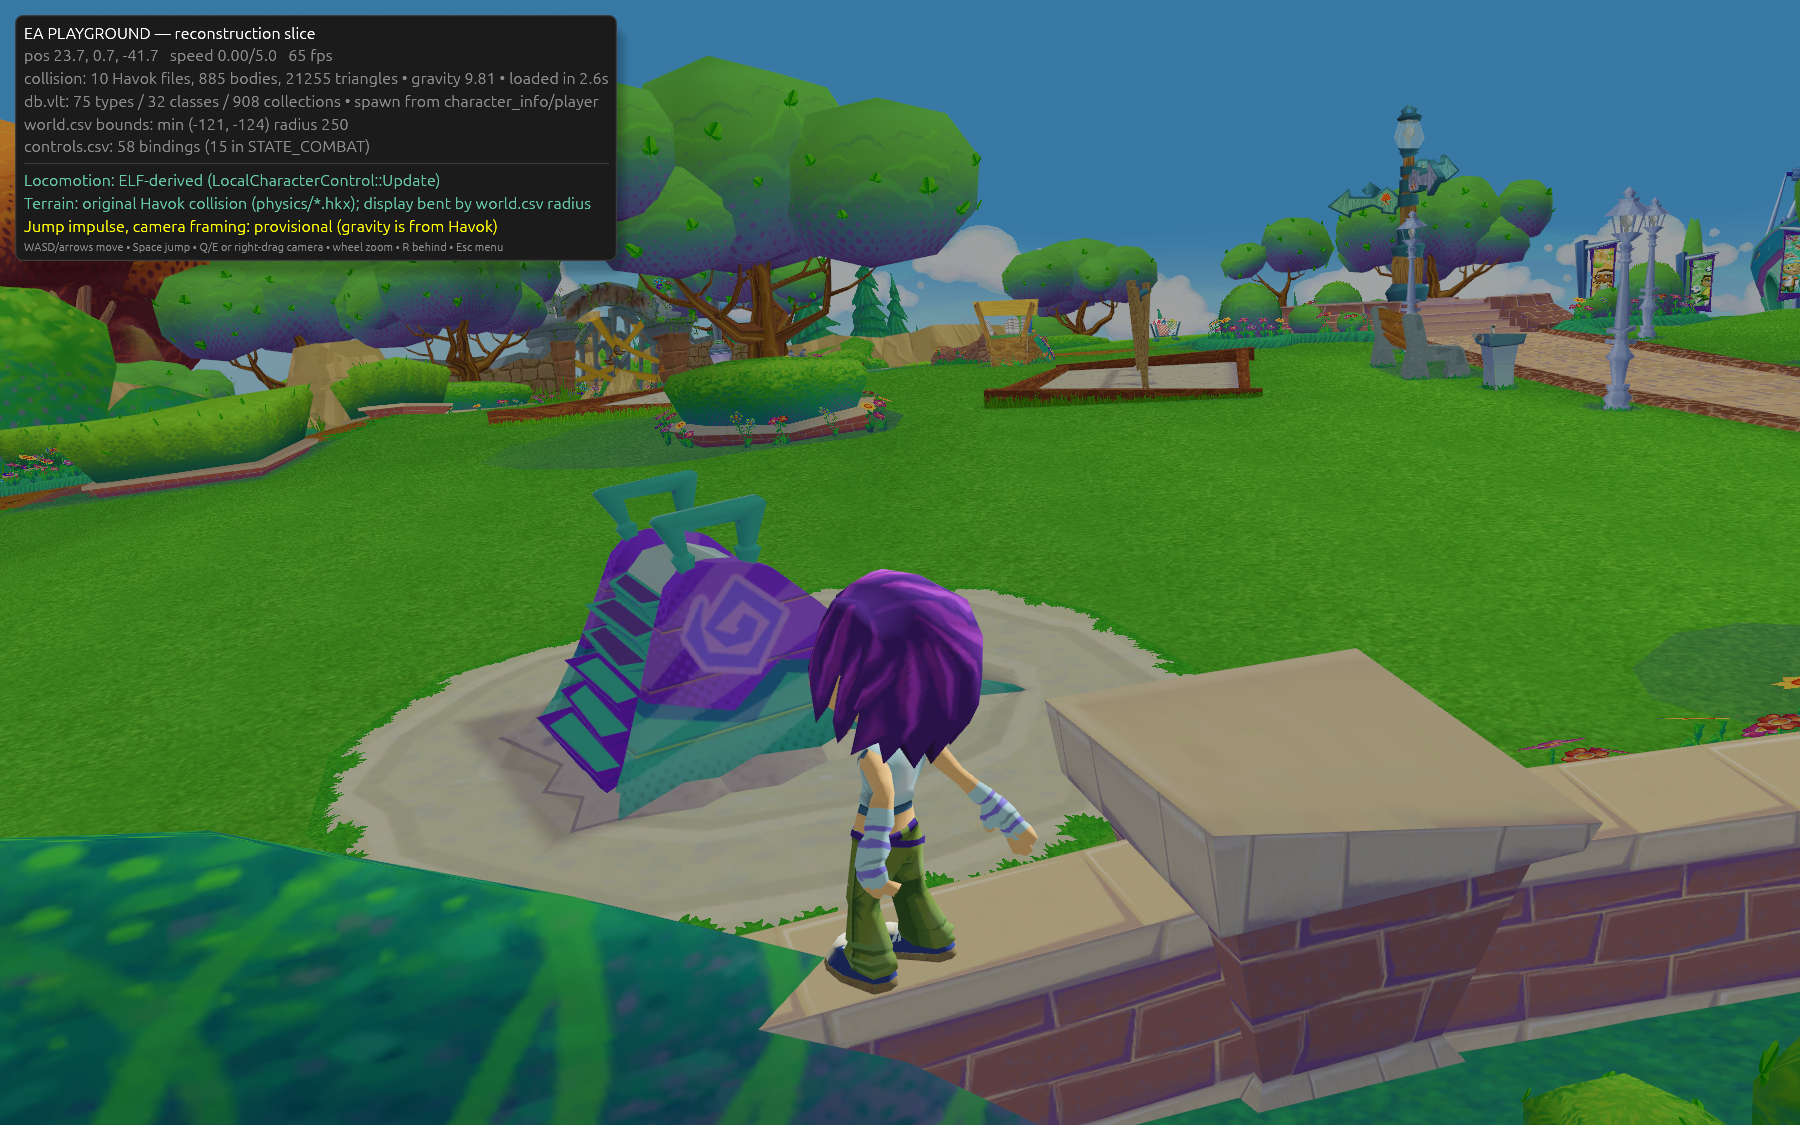
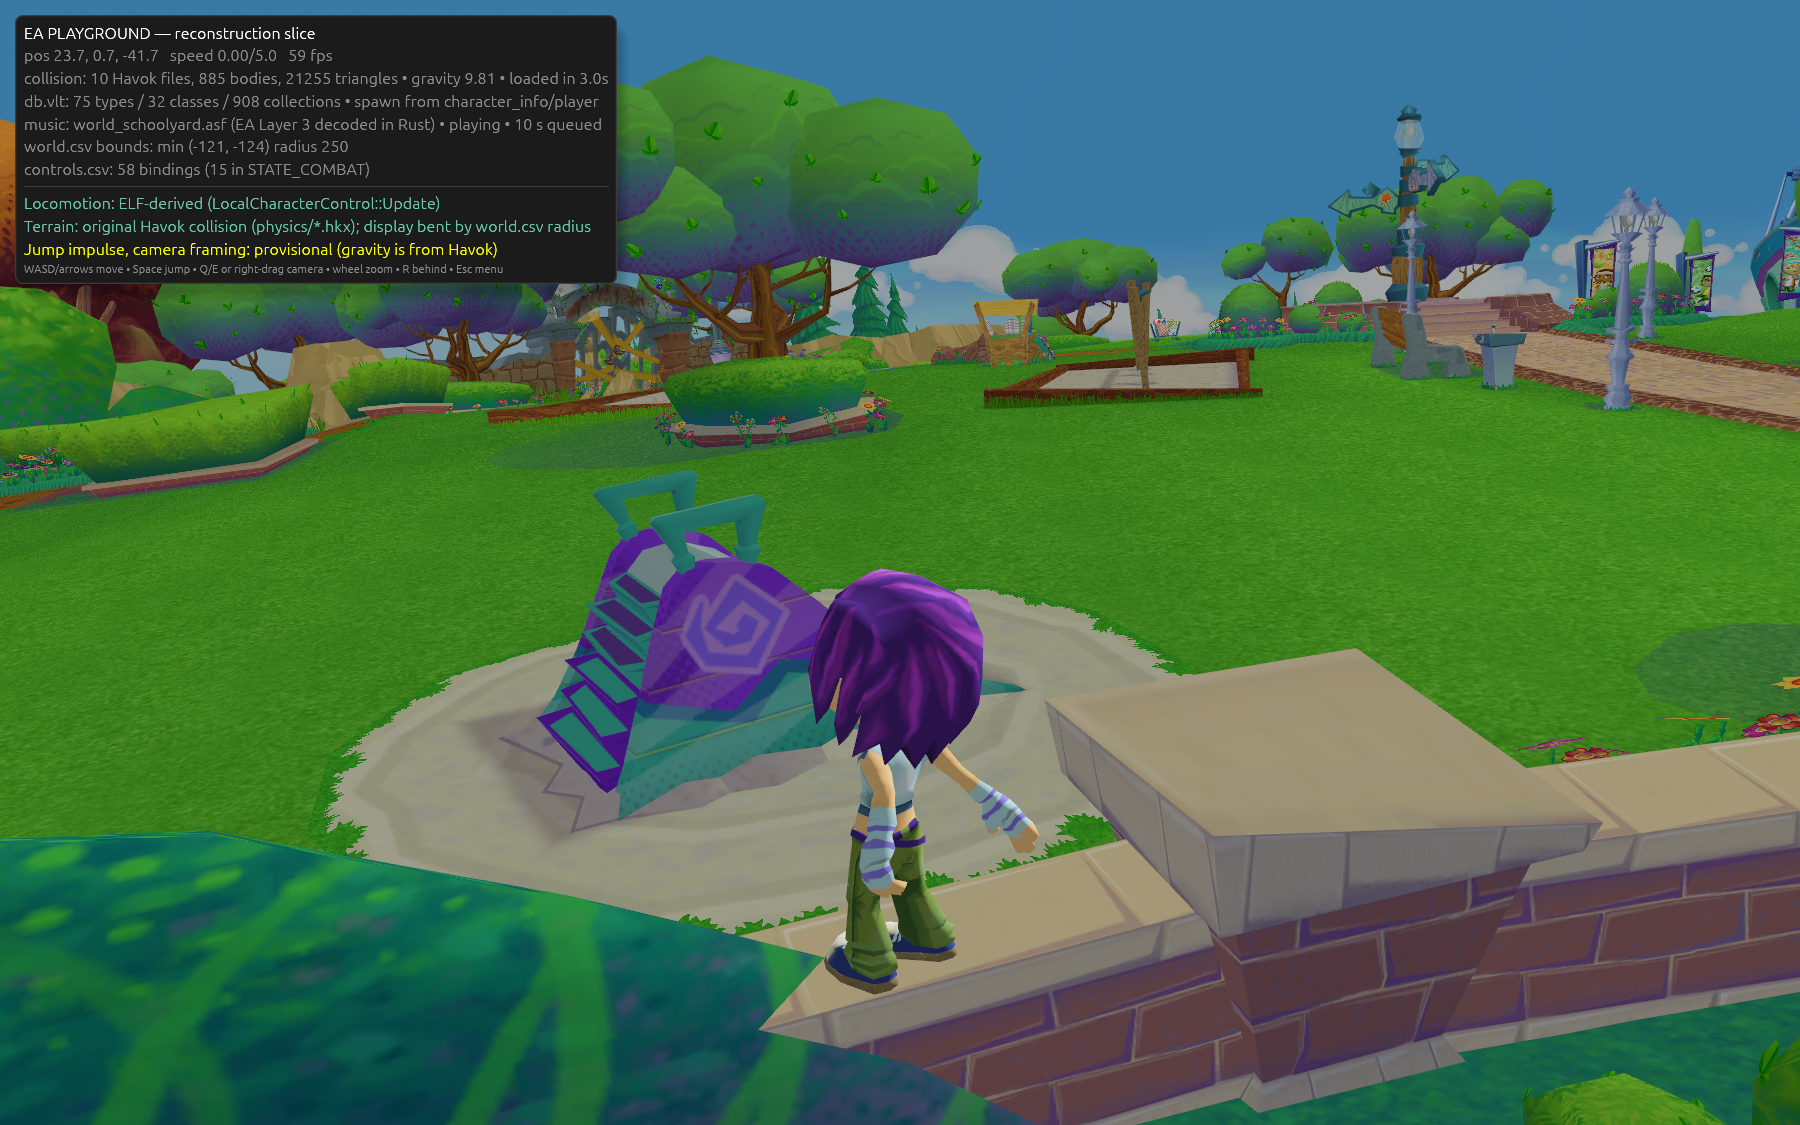
Game streams area music from the Rust EA Layer 3 decoder through winmm; self-test 20/20

diff --git a/_bevy/src/game.rs b/_bevy/src/game.rs
@@ -154,7 +154,7 @@ fn seg_cross(p:Vec2,q:Vec2,r:Vec2,s:Vec2)->bool{
 
 #[derive(Resource)]
 pub struct Game{
-    player_asset:Option<PlayerAsset>,results:HashMap<String,Value>,rx:Mutex<mpsc::Receiver<LoadMsg>>,filelist:Vec<(String,bool)>,models_expected:Option<usize>,models_received:usize,
+    player_asset:Option<PlayerAsset>,pub music:Option<crate::playback::Music>,pub music_name:String,results:HashMap<String,Value>,rx:Mutex<mpsc::Receiver<LoadMsg>>,filelist:Vec<(String,bool)>,models_expected:Option<usize>,models_received:usize,
     phase:Phase,started:Instant,pub log:Vec<String>,boot_image:Option<Handle<Image>>,boot_egui:Option<egui::TextureId>,
     layers:Vec<(String,String)>,layers_expected:usize,layers_ready:usize,layers_empty:usize,clip_handles:Vec<Handle<AnimationClip>>,
     ground:Option<Ground>,build_wait:u32,player:Option<Entity>,pub spawn:Vec3,pub gravity:f32,pub world_radius:f32,sky_expected:usize,sky_ready:usize,sky_angle:f32,pub placeables:Vec<Placeable>,pub props_spawned:usize,pub props_failed:usize,pub collision_bodies:usize,pub collision_files:usize,
@@ -208,7 +208,7 @@ impl Game{
             _=>log.push("db.vlt/db.bin not found".into()),
         }
         let (tx,rx)=mpsc::channel();
-        let mut g=Self{player_asset:None,results:HashMap::new(),rx:Mutex::new(rx),filelist:vec![],models_expected:None,models_received:0,phase:Phase::Loading,started:Instant::now(),log,
+        let mut g=Self{player_asset:None,music:None,music_name:String::new(),results:HashMap::new(),rx:Mutex::new(rx),filelist:vec![],models_expected:None,models_received:0,phase:Phase::Loading,started:Instant::now(),log,
             boot_image:None,boot_egui:None,layers:vec![],layers_expected:0,layers_ready:0,layers_empty:0,clip_handles:vec![],ground:None,build_wait:0,player:None,spawn:Vec3::ZERO,
             gravity:9.81,world_radius:0.,sky_expected:0,sky_ready:0,sky_angle:0.,placeables:vec![],props_spawned:0,props_failed:0,collision_bodies:0,collision_files:0,db_summary:String::new(),start_dir:Vec3::Z,spawn_from_db:false,tri_count:0,controls_rows:0,combat_bindings:0,world_bounds:None,boot_shown:None,boot_shot:false,load_seconds:0.,selftest};
         // (fields set below)
@@ -379,6 +379,13 @@ fn build(mut commands:Commands,mut g:Option<ResMut<Game>>,mut ibp:ResMut<Assets<
     let joints=character::spawn_rig(&mut commands,&mut ibp,&asset.skeleton,&asset.up,model,model);
     g.log.push(format!("player rig: {} joints, {} skinned parts",joints.len(),asset.up.parts.len()));
     g.player=Some(player);
+    // Area music: the executable names world_nature/park/schoolyard/stadium.asf; the start area is the schoolyard hub
+    // (provisional mapping - the original's area -> track selection was not traced).
+    if !std::env::args().any(|a|a=="--mute"){
+        let track="world_schoolyard.asf";
+        g.music=Some(crate::playback::Music::start(bridge::data_root().join("files").join("data").join("audio").join("music").join(track),0.4));
+        g.music_name=track.into();
+    }
     if cam.is_empty(){
         // Sky camera (order -1) draws the sky layer first; the world camera keeps that colour buffer and adds the world on top.
         commands.spawn((GameEntity,SkyCamera,Camera3d::default(),Camera{order:-1,..default()},RenderLayers::layer(SKY_LAYER),Transform::from_translation(g.spawn+Vec3::new(0.,2.,4.))));
@@ -500,6 +507,7 @@ fn hud(images:Res<Assets<Image>>,mut contexts:EguiContexts,mut g:Option<ResMut<G
                     ui.label(format!("pos {:.1}, {:.1}, {:.1}   speed {:.2}/{:.1}   {:.0} fps",pos.x,pos.y,pos.z,speed,k::STATE_MAX_SPEED,1./time.delta_secs().max(1e-4)));
                     ui.label(format!("collision: {} Havok files, {} bodies, {} triangles • gravity {:.2} • loaded in {:.1}s",g.collision_files,g.collision_bodies,g.tri_count,g.gravity,g.load_seconds));
                     ui.label(format!("db.vlt: {} • spawn {}",g.db_summary,if g.spawn_from_db{"from character_info/player"}else{"provisional"}));
+                    if let Some(m)=&g.music{ui.label(format!("music: {} (EA Layer 3 decoded in Rust) • {} • {} s queued",g.music_name,m.status.describe(),m.status.samples_played.load(std::sync::atomic::Ordering::Relaxed)/44100));}
                     if let Some((x,z,r))=g.world_bounds{ui.label(format!("world.csv bounds: min ({x}, {z}) radius {r}"));}
                     ui.label(format!("controls.csv: {} bindings ({} in STATE_COMBAT)",g.controls_rows,g.combat_bindings));
                     ui.separator();
@@ -573,6 +581,8 @@ fn selftest(mut commands:Commands,mut g:Option<ResMut<Game>>,mut input:ResMut<Ga
                 let (lo,hi)=poses.iter().fold((f64::MAX,f64::MIN),|a,&x|(a.0.min(x),a.1.max(x)));
                 check("decoded clips animate the skeleton (joint pose changes idle -> walk/run)",poses.len()>=3&&hi-lo>0.05,format!("joint rotation checksum ranged {lo:.3}..{hi:.3} over {} samples",poses.len()));
                 check("player spawn read from db.vlt (character_info/player)",g.spawn_from_db&&(g.spawn.x-12.).abs()<1.&&(g.spawn.z+53.).abs()<1.&&g.spawn.y.abs()<1.5,format!("start_location (12,0,-53) -> ground-snapped spawn {:.1},{:.1},{:.1}",g.spawn.x,g.spawn.y,g.spawn.z));
+                let music_state=g.music.as_ref().map(|m|(m.status.state.load(std::sync::atomic::Ordering::Relaxed),m.status.samples_played.load(std::sync::atomic::Ordering::Relaxed)));
+                check("area music streams from the Rust EA Layer 3 decoder",music_state.is_none_or(|(s,q)|(s==crate::playback::Status::PLAYING&&q>44100)||s==crate::playback::Status::NO_DEVICE),format!("{}: state {:?}, {} samples queued",g.music_name,music_state.map(|m|m.0),music_state.map(|m|m.1).unwrap_or(0)));
                 check("controls.csv parsed",g.combat_bindings>=8,format!("{} rows, {} STATE_COMBAT",g.controls_rows,g.combat_bindings));
                 check("mesh entities in scene",meshes.iter().count()>100,format!("{} Mesh3d entities",meshes.iter().count()));
                 check("animation players active",players.iter().count()>=1,format!("{} players",players.iter().count()));

diff --git a/_bevy/src/playback.rs b/_bevy/src/playback.rs
@@ -1,0 +1,89 @@
+//! Streaming PCM playback through the Windows `winmm` wave-out API (no audio crate is needed).
+//! A worker thread decodes the EA Layer 3 stream block by block, keeps a few buffers queued and loops at the end.
+//! On other platforms (or without an audio device) playback silently does nothing; `Status` reports what happened.
+use crate::audio::StreamDecoder;
+use std::sync::{atomic::{AtomicBool,AtomicU64,AtomicU8,Ordering},Arc};
+
+#[derive(Default)]
+pub struct Status{pub state:AtomicU8,pub samples_played:AtomicU64,pub loops:AtomicU64}
+impl Status{
+    pub const IDLE:u8=0;pub const PLAYING:u8=1;pub const NO_DEVICE:u8=2;pub const ERROR:u8=3;pub const STOPPED:u8=4;
+    pub fn describe(&self)->&'static str{match self.state.load(Ordering::Relaxed){1=>"playing",2=>"no audio device",3=>"decode error",4=>"stopped",_=>"starting"}}
+}
+
+pub struct Music{stop:Arc<AtomicBool>,pub status:Arc<Status>,handle:Option<std::thread::JoinHandle<()>>}
+impl Music{
+    /// Start looping the `.asf` file at `path` (read on the worker thread); `volume` is 0..1 (applied to the samples).
+    pub fn start(path:std::path::PathBuf,volume:f32)->Music{
+        let stop=Arc::new(AtomicBool::new(false));let status=Arc::new(Status::default());
+        let (s2,st2)=(stop.clone(),status.clone());
+        let handle=std::thread::Builder::new().name("music".into()).spawn(move||run(path,volume,s2,st2)).ok();
+        Music{stop,status,handle}
+    }
+}
+impl Drop for Music{
+    fn drop(&mut self){self.stop.store(true,Ordering::Relaxed);if let Some(h)=self.handle.take(){let _=h.join();}}
+}
+
+#[cfg(windows)]
+mod sys{
+    use std::ffi::c_void;
+    #[repr(C)] pub struct WaveFormatEx{pub tag:u16,pub channels:u16,pub rate:u32,pub bytes_per_sec:u32,pub block_align:u16,pub bits:u16,pub size:u16}
+    #[repr(C)] pub struct WaveHdr{pub data:*mut u8,pub len:u32,pub recorded:u32,pub user:usize,pub flags:u32,pub loops:u32,pub next:*mut WaveHdr,pub reserved:usize}
+    pub const WAVE_MAPPER:u32=0xFFFF_FFFF;pub const WHDR_DONE:u32=1;
+    #[link(name="winmm")]
+    unsafe extern "system"{
+        pub fn waveOutOpen(h:*mut *mut c_void,dev:u32,fmt:*const WaveFormatEx,cb:usize,inst:usize,flags:u32)->u32;
+        pub fn waveOutPrepareHeader(h:*mut c_void,hdr:*mut WaveHdr,size:u32)->u32;
+        pub fn waveOutUnprepareHeader(h:*mut c_void,hdr:*mut WaveHdr,size:u32)->u32;
+        pub fn waveOutWrite(h:*mut c_void,hdr:*mut WaveHdr,size:u32)->u32;
+        pub fn waveOutReset(h:*mut c_void)->u32;
+        pub fn waveOutClose(h:*mut c_void)->u32;
+    }
+}
+
+#[cfg(windows)]
+fn run(path:std::path::PathBuf,volume:f32,stop:Arc<AtomicBool>,status:Arc<Status>){
+    use std::{ffi::c_void,time::Duration};
+    let Ok(stream)=std::fs::read(&path) else{status.state.store(Status::ERROR,Ordering::Relaxed);return};
+    let mut dec=match StreamDecoder::new(stream){Ok(d)=>d,Err(_)=>{status.state.store(Status::ERROR,Ordering::Relaxed);return}};
+    let ch=dec.channels();
+    let fmt=sys::WaveFormatEx{tag:1,channels:ch as u16,rate:dec.header.sample_rate,bytes_per_sec:dec.header.sample_rate*ch as u32*2,block_align:(ch*2) as u16,bits:16,size:0};
+    let mut h:*mut c_void=std::ptr::null_mut();
+    if unsafe{sys::waveOutOpen(&mut h,sys::WAVE_MAPPER,&fmt,0,0,0)}!=0{status.state.store(Status::NO_DEVICE,Ordering::Relaxed);return}
+    const N:usize=4;let mut bufs:Vec<Vec<i16>>=(0..N).map(|_|Vec::new()).collect();
+    let mut hdrs:Vec<sys::WaveHdr>=(0..N).map(|_|sys::WaveHdr{data:std::ptr::null_mut(),len:0,recorded:0,user:0,flags:sys::WHDR_DONE,loops:0,next:std::ptr::null_mut(),reserved:0}).collect();
+    let hs=std::mem::size_of::<sys::WaveHdr>() as u32;let mut prepared=[false;N];
+    let mut pending:Vec<i16>=Vec::new();let mut eof=false;
+    status.state.store(Status::PLAYING,Ordering::Relaxed);
+    while !stop.load(Ordering::Relaxed){
+        for i in 0..N{
+            if hdrs[i].flags&sys::WHDR_DONE==0{continue}
+            if prepared[i]{unsafe{sys::waveOutUnprepareHeader(h,&mut hdrs[i],hs);}prepared[i]=false;}
+            // refill ~0.25 s
+            let target=dec.header.sample_rate as usize*ch/4;
+            while pending.len()<target&&!eof{
+                match dec.next_block(){
+                    Ok(Some(b))=>pending.extend(b),
+                    Ok(None)=>{dec.rewind();status.loops.fetch_add(1,Ordering::Relaxed);}
+                    Err(_)=>{status.state.store(Status::ERROR,Ordering::Relaxed);eof=true}
+                }
+            }
+            if pending.is_empty(){continue}
+            let take=pending.len().min(target);
+            bufs[i].clear();bufs[i].extend(pending.drain(..take).map(|s|(s as f32*volume) as i16));
+            hdrs[i]=sys::WaveHdr{data:bufs[i].as_mut_ptr() as *mut u8,len:(bufs[i].len()*2) as u32,recorded:0,user:0,flags:0,loops:0,next:std::ptr::null_mut(),reserved:0};
+            unsafe{
+                if sys::waveOutPrepareHeader(h,&mut hdrs[i],hs)==0{prepared[i]=true;
+                    if sys::waveOutWrite(h,&mut hdrs[i],hs)==0{status.samples_played.fetch_add((take/ch) as u64,Ordering::Relaxed);}else{hdrs[i].flags=sys::WHDR_DONE}
+                }
+            }
+        }
+        std::thread::sleep(Duration::from_millis(15));
+    }
+    unsafe{sys::waveOutReset(h);for i in 0..N{if prepared[i]{sys::waveOutUnprepareHeader(h,&mut hdrs[i],hs);}}sys::waveOutClose(h);}
+    status.state.store(Status::STOPPED,Ordering::Relaxed);
+}
+
+#[cfg(not(windows))]
+fn run(_path:std::path::PathBuf,_volume:f32,_stop:Arc<AtomicBool>,status:Arc<Status>){status.state.store(Status::NO_DEVICE,Ordering::Relaxed);}

diff --git a/_bevy/src/main.rs b/_bevy/src/main.rs
@@ -15,6 +15,7 @@ mod locale;
 mod mp3_tables;
 mod mp3;
 mod audio;
+mod playback;
 mod placement;
 mod conversation;
 mod model;
